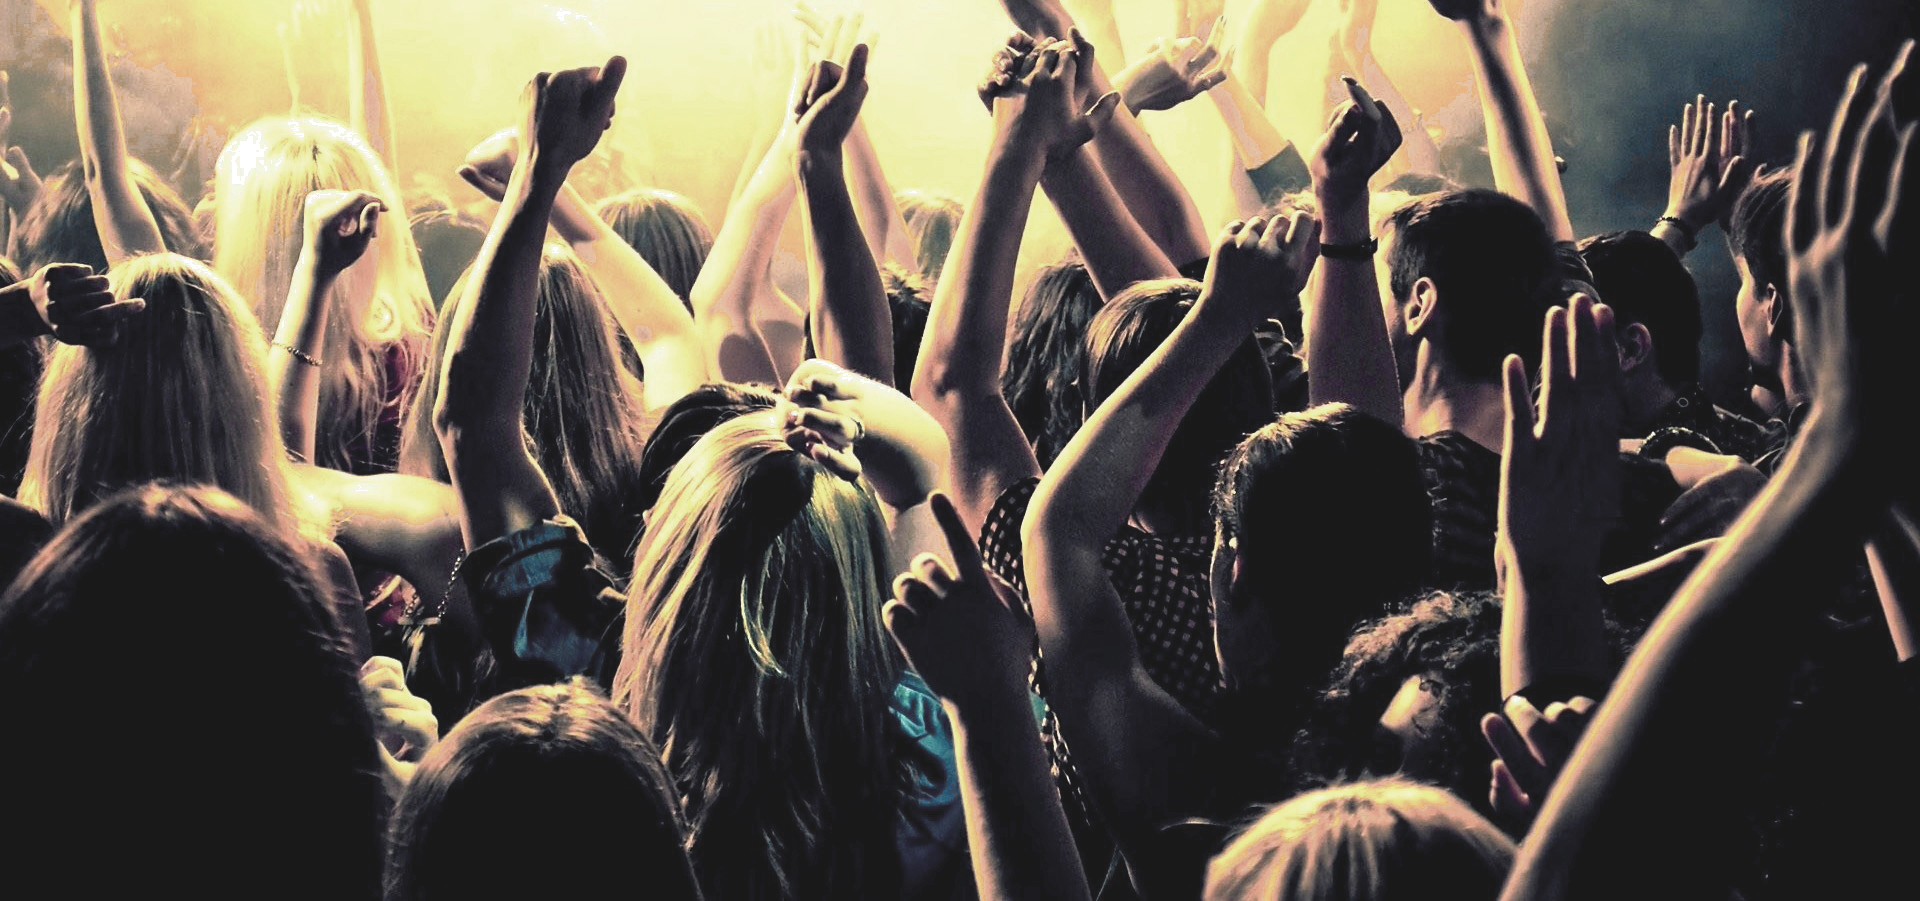
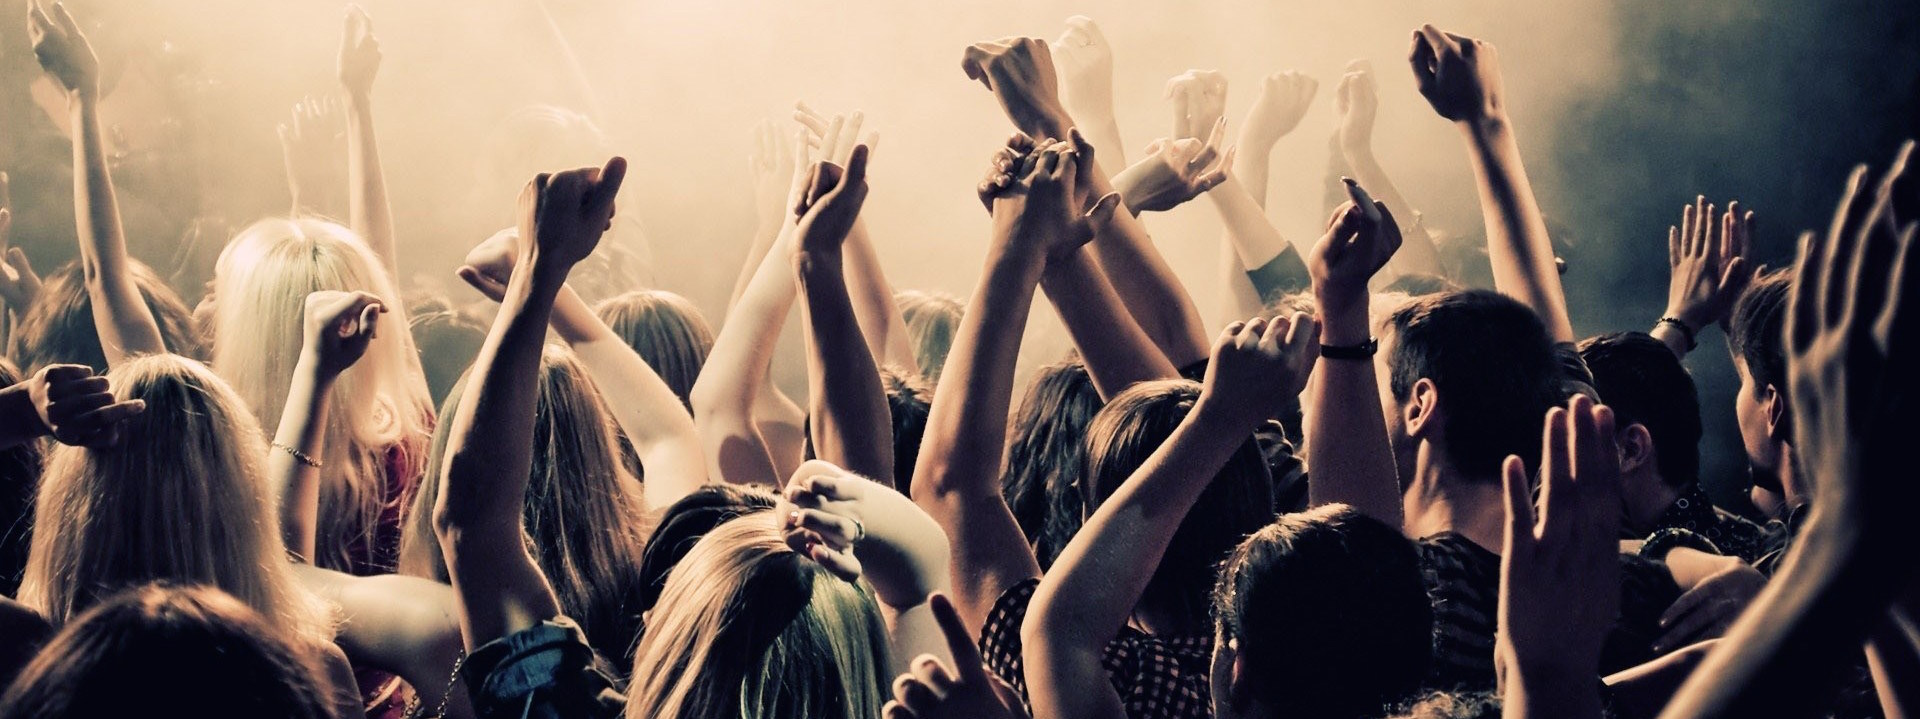
Home image changed.

diff --git a/index.html b/index.html
@@ -88,10 +88,11 @@
       </div>
       <div style="display:inline-block;width:87%;vertical-align: top;" class="navigation">
         <ul >
-          <li><a href="/about/">ABOUT</a></li>
-          <li><a href="/jobs/">JOBS</a></li>
-          <li><a href="https://robinhoodapp.zendesk.com/hc/en-us" target="_blank">FAQ</a></li>
-          <li><a href="http://blog.robinhood.com" target="_blank">BLOG</a></li>
+          <li><a href="/about/">Home</a></li>
+          <li><a href="/jobs/">Features</a></li>
+          <li><a href="#" target="_blank">Jobs</a></li>
+          <li><a href="#" target="_blank">Blogs</a></li>
+		  <li><a href="#" target="_blank">Support</a></li>
           <li><a target="_blank" href="https://twitter.com/OrcaRadio"><img src="twitter-logo.png" alt="Twitter"></a></li>
           <li><a target="_blank" href="https://www.facebook.com/pages/Orca-Radio/338737636305934?fref=ts"><img src="facebook-logo.png" alt="Facebook" ></a></li>
          <li><a target="_blank" href="http://instagram.com/orcaradio"><img src="instagram-logo.png" alt="Instagram"></a></li>
@@ -120,88 +121,12 @@
   
     <div class="container">
       <!--holding everything-->
-		<div class="newrowcenter"> <!--textual-->
-			<div >
-			  <table class="center">
-					<tr id="jobs">
-						<td>
-					<table>
-					<tr>
-						<td>Professional 2</td>
-						<td> blah blah blah blah blah blah</td>
-					</tr>
-					</table>
-					</td>
-					</tr>
-					<tr id="jobs"><td>
-					<table>
-					<tr>
-						<td>Professional 2</td>
-						<td>Blah blah blah blah blah blah blah blah blah blah blah blah blah blah blah</td>
-					</tr>
-					</table>
-					</td></tr>
-					<tr id="jobs">
-						<td>
-					<table>
-					<tr>
-						<td>Professional 2</td>
-						<td>Blah blah blah blah blah blah blah blah blah blah blah blah blah blah blah</td>
-					</tr>
-					</table>
-					</td>
-					</tr>
-					<tr id="jobs">
-						<td>
-					<table>
-					<tr>
-						<td>Professional 2</td>
-						<td>Blah blah blah blah blah blah blah blah blah blah blah blah blah blah blah</td>
-					</tr>
-					</table>
-					</td>
-					</tr>
-					<tr id="jobs">
-						<td>
-					<table>
-					<tr>
-						<td>Professional 2</td>
-						<td>Blah blah blah blah blah blah blah blah blah blah blah blah blah blah blah</td>
-					</tr>
-					</table>
-					</td>
-					</tr>
-					<tr id="jobs">
-						<td>
-					<table>
-					<tr>
-						<td>Professional 2</td>
-						<td>Blah blah blah blah blah blah blah blah blah blah blah blah blah blah blah</td>
-					</tr>
-					</table>
-					</td>
-					</tr>
-				</table>	
-			</div>
-		  
-			
-					
-			<div>	
-				<div>
-				  
-				 </div>
-				  
-			</div>
-		</div>
- </div>
+		 </div>
  
-  <!--END CONTENT PANE 1-->
-
+</div>
   
   
-  
-  
-  
+   <!--END CONTENT PANE 1-->
   
   
   

diff --git a/stylesheet2.css b/stylesheet2.css
@@ -10,8 +10,8 @@ body{height:100%;}
 nav li{
   display: inline;
   float:left;
-  padding-left:3vw;
-  padding-right: 4vw;
+  padding-left:2vw;
+  padding-right: 3vw;
   padding-top:15px;
 }
 
@@ -19,7 +19,7 @@ nav a:link, nav a:visited{
   text-decoration: none;
   font-family: "Lucida Sans Unicode", Lucida Grande, sans-serif;
   font-size: 150%;
-  color: rgba(255, 255, 255, 0.95);
+  color: rgba(255, 255, 255, 1);
   background: rgba(0, 174, 255, 0);
     position: relative;
   display:block;
@@ -111,17 +111,17 @@ left:7.3206%;
   
 .contentgrey{
 background: rgba(155, 155, 155, 0.7);
-color: rgba(255, 255, 255, 0.8);
-height: 40vw;
-/* max-height:450px; */
-/* min-width: 200px; */
+color: rgba(255, 255, 255, 1);
+height: 36vw;
+ max-height:450px; 
+ min-width: 200px; 
 
 width: 100%;
 }
 .contentwhite {
 background: rgba(255, 255, 255, 1);
-color: rgba(0, 174, 255, 0.7);
-height: 40vw;
+color: rgba(0, 174, 255, 1);
+height: 36vw;
 max-height:450px;
 min-width: 200px;
 
@@ -161,13 +161,20 @@ table {border-spacing:25px; }
     vertical-align: top;
 }
 @media only screen 
-and (max-width : 950px) {
-  nav li{
+and (max-width : 1096px) {
+  nav a:link{
+    font-size: 135%;
+  }
+   .navigation a img{
+    height: 28px;
+    width: 28px;
+  }
+   nav li{
   padding-left:2vw;
-  padding-right: 3vw;
+  padding-right: 2vw;
 }
-
-@media screen and (max-width : 730px){
+}
+@media screen and (max-width : 860px){
   /*Make dropdown links appear inline*/
   ul {
     padding:0px;
@@ -192,7 +199,7 @@ and (max-width : 950px) {
   }
  nav li{
   padding-left:2vw;
-  padding-right: 4vw;
+  padding-right: 2vw;
 }
 }
 
